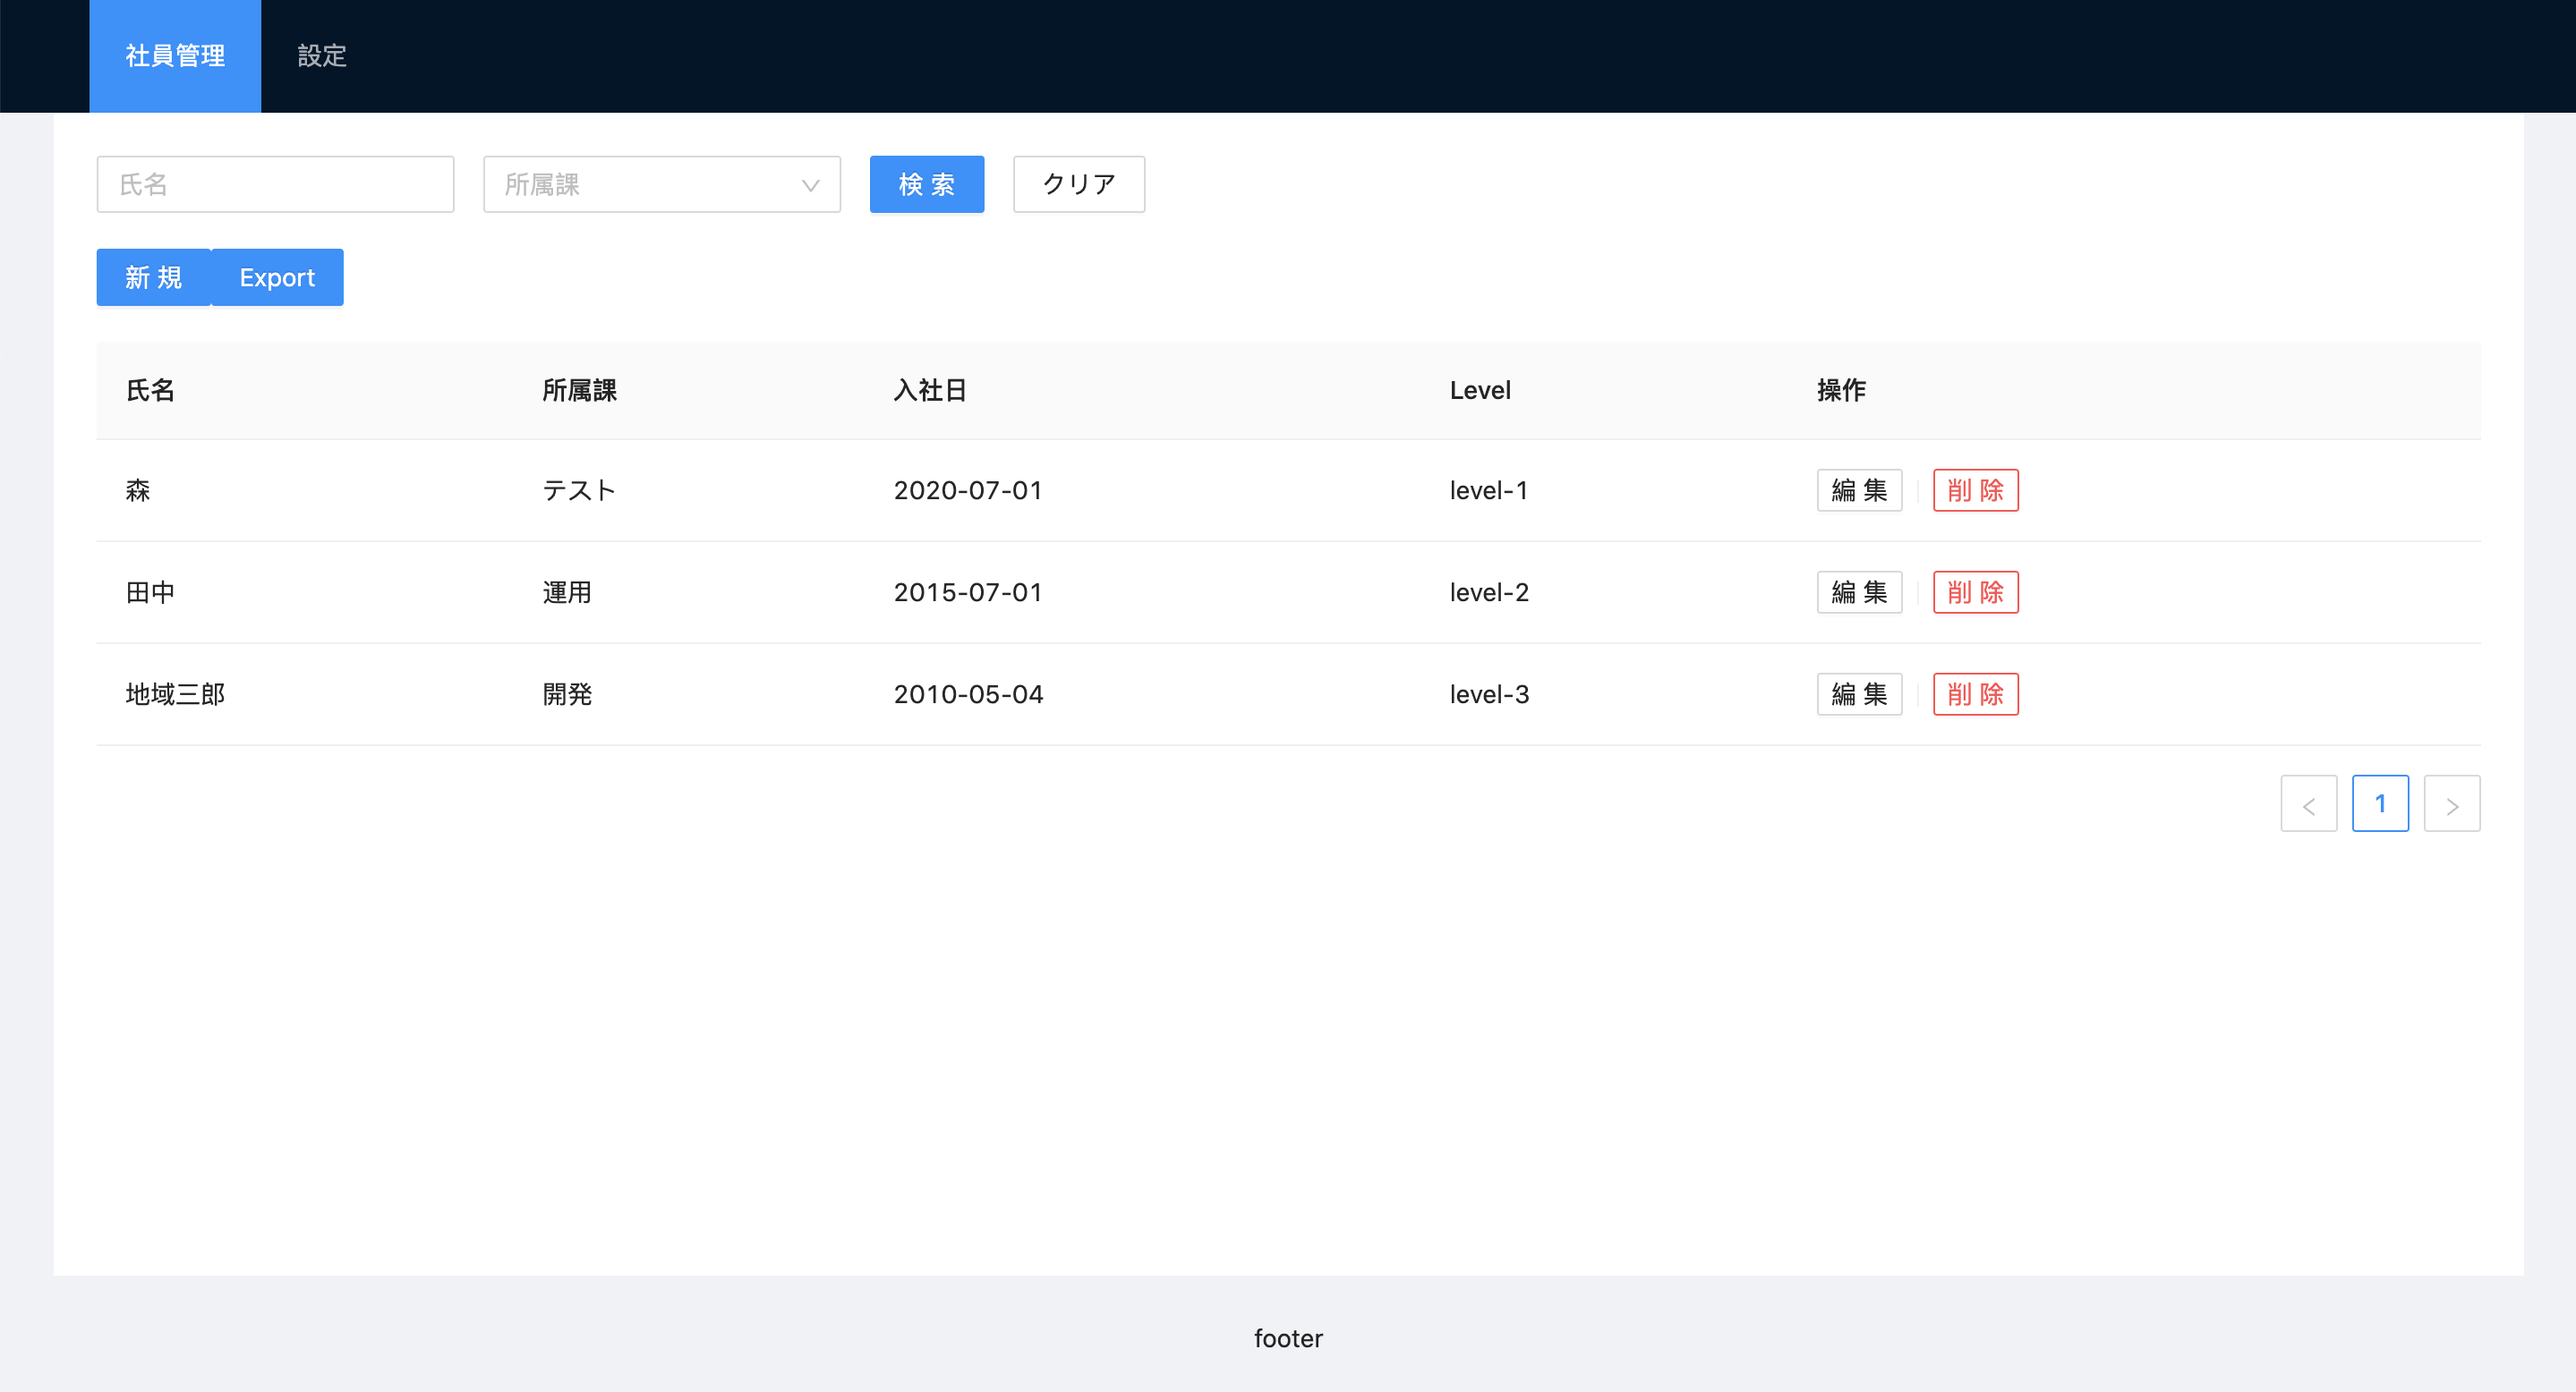
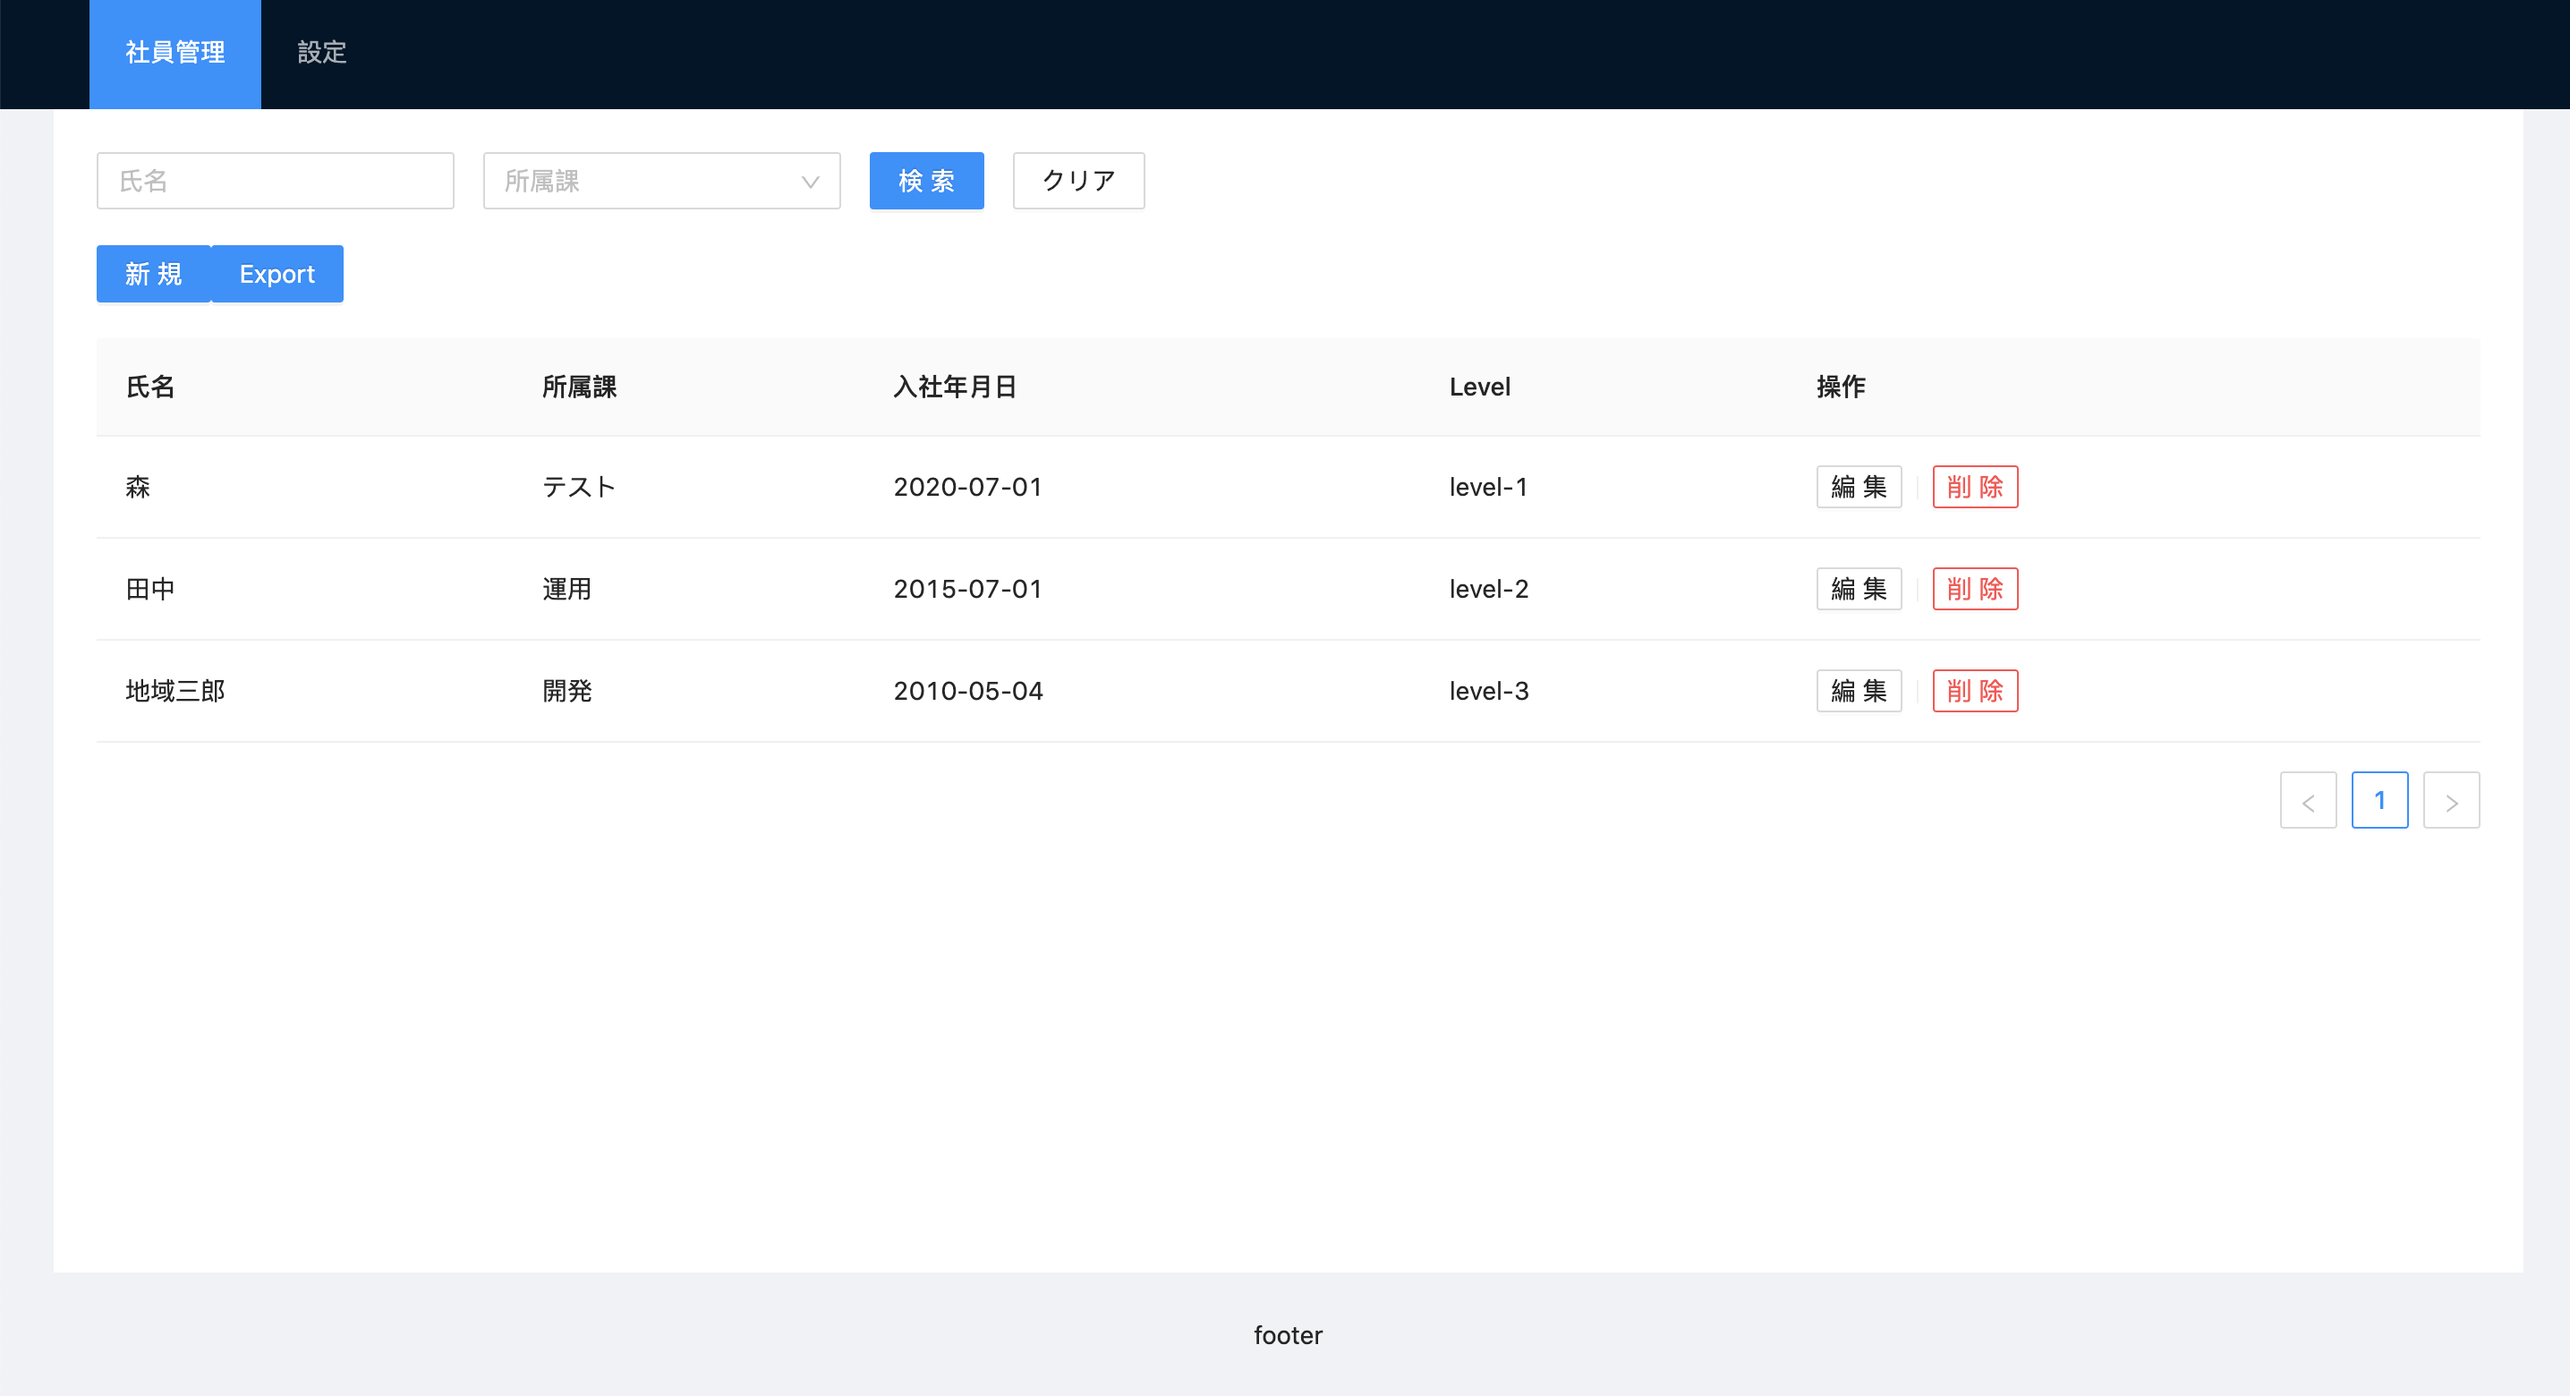
文字修正

diff --git a/hrm-client/src/features/employee/components/infoModal.tsx b/hrm-client/src/features/employee/components/infoModal.tsx
@@ -141,12 +141,14 @@ const InfoModal = (props: Props) => {
             </Select>
           </Form.Item>
           <Form.Item
-            label="入社時間"
+            label="入社年月日"
             name="hiredate"
             initialValue={hiredate ? moment(hiredate) : undefined}
-            rules={[{ required: true, message: "入社時間を選択してください" }]}
+            rules={[
+              { required: true, message: "入社年月日を選択してください" },
+            ]}
           >
-            <DatePicker placeholder="入社時間" style={{ width: 200 }} />
+            <DatePicker placeholder="入社年月日" style={{ width: 200 }} />
           </Form.Item>
           <Form.Item
             label="level"

diff --git a/hrm-client/src/features/employee/components/dataColumns.tsx b/hrm-client/src/features/employee/components/dataColumns.tsx
@@ -18,7 +18,7 @@ const DataColumns = (
       key: "department",
     },
     {
-      title: "入社日",
+      title: "入社年月日",
       dataIndex: "hiredate",
       key: "hiredate",
     },
